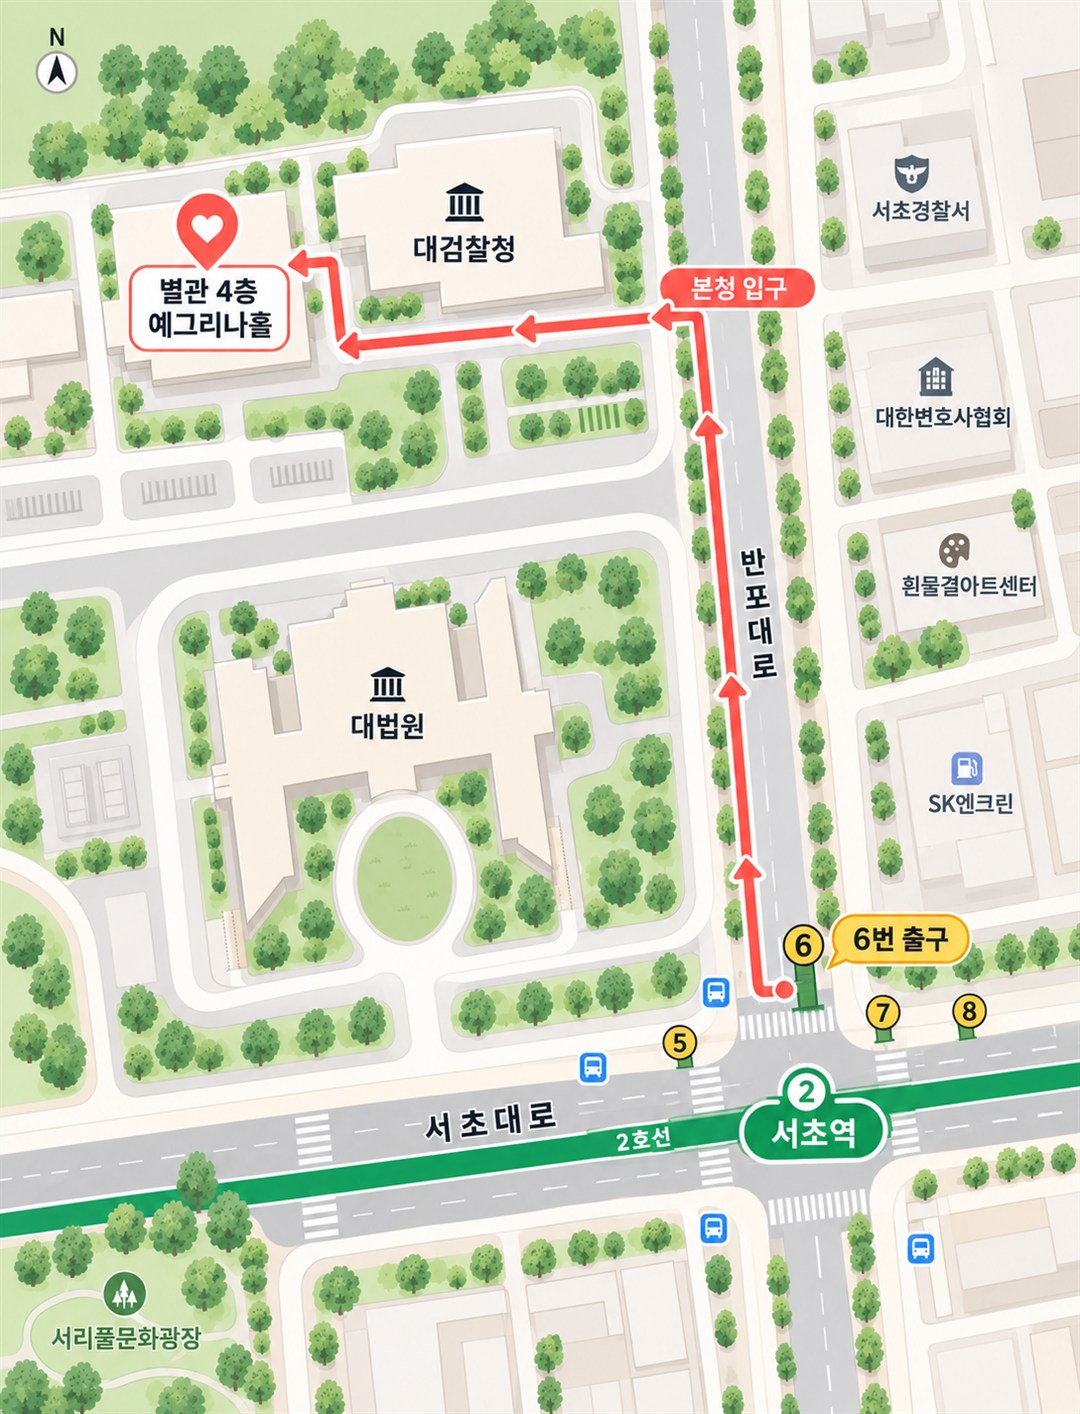
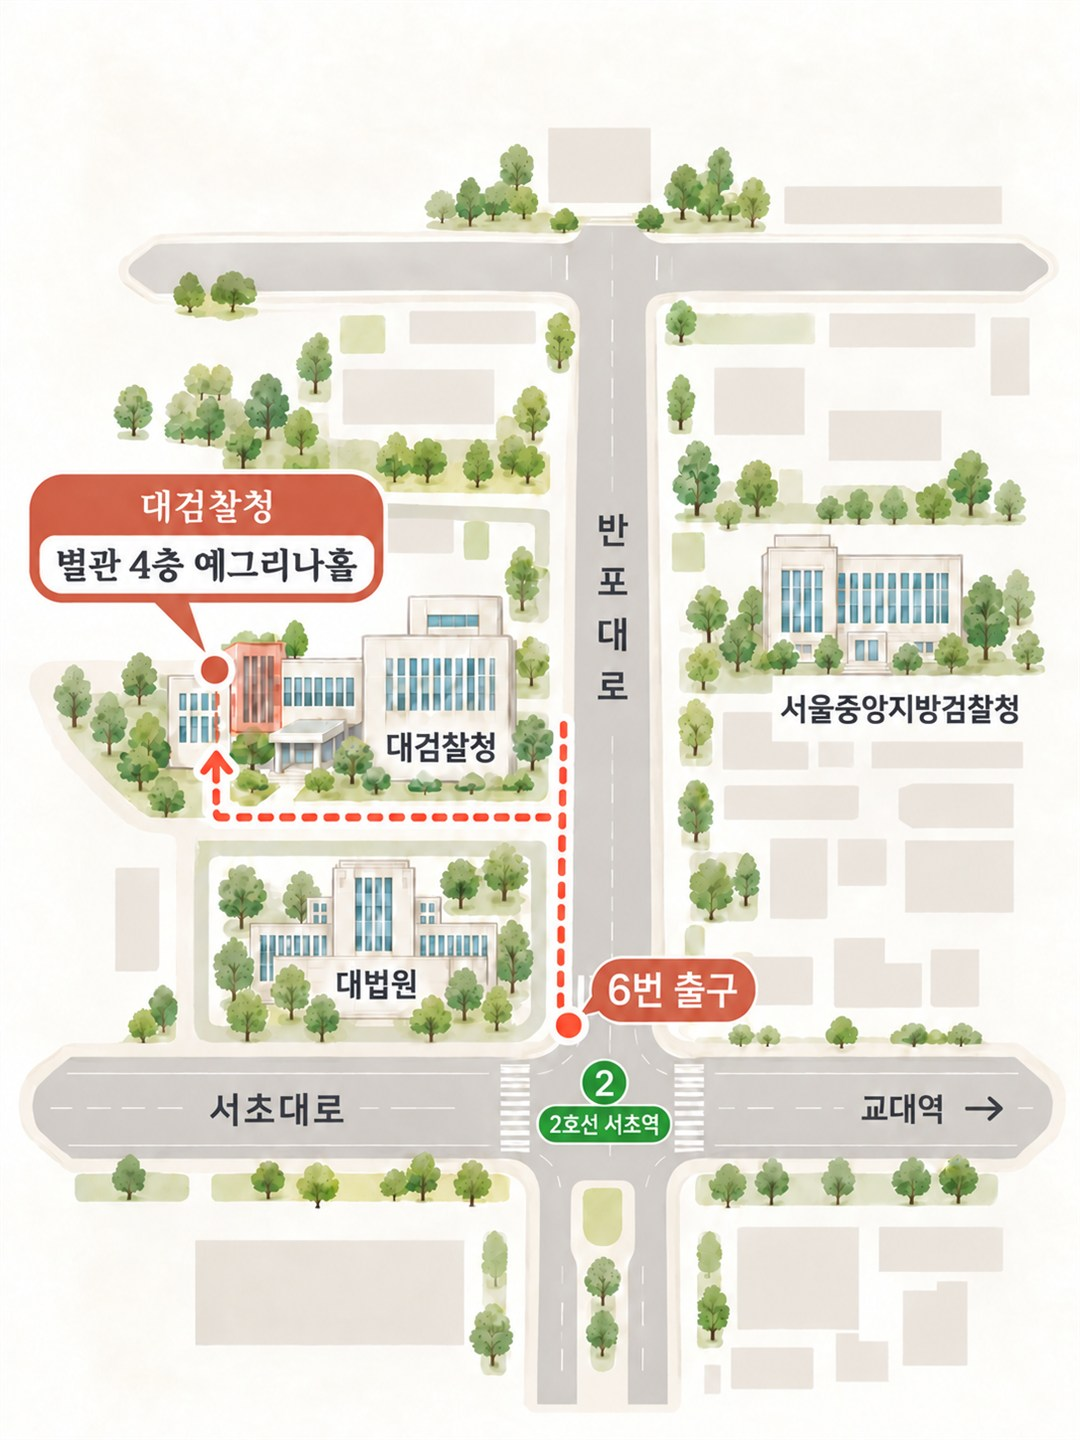
Revise venue map landmarks and route

diff --git a/docs/index.html b/docs/index.html
@@ -103,7 +103,7 @@
           <h2 id="location-title">오시는 길</h2>
           <div class="venue-card">
             <figure class="location-map">
-              <img src="./images/location-map.jpg?v=20261007-4" alt="서초역 주변 출구와 주요 건물, 6번 출구에서 본청 입구를 거쳐 대검찰청 별관 4층 예그리나홀까지 가는 길을 표시한 약도" loading="lazy" decoding="async" />
+              <img src="./images/location-map.jpg?v=20261007-5" alt="서초역 6번 출구에서 대검찰청 별관 4층 예그리나홀까지 가는 길과 주변 기관을 표시한 약도" loading="lazy" decoding="async" />
             </figure>
             <div class="venue-content">
               <p class="venue-label">WEDDING VENUE</p>
